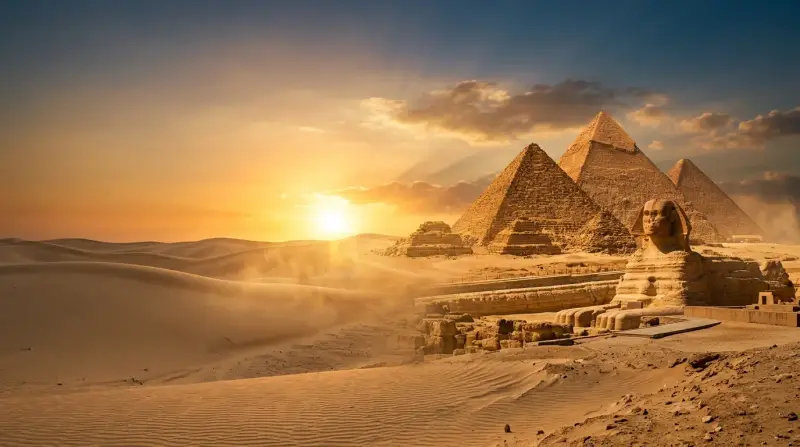
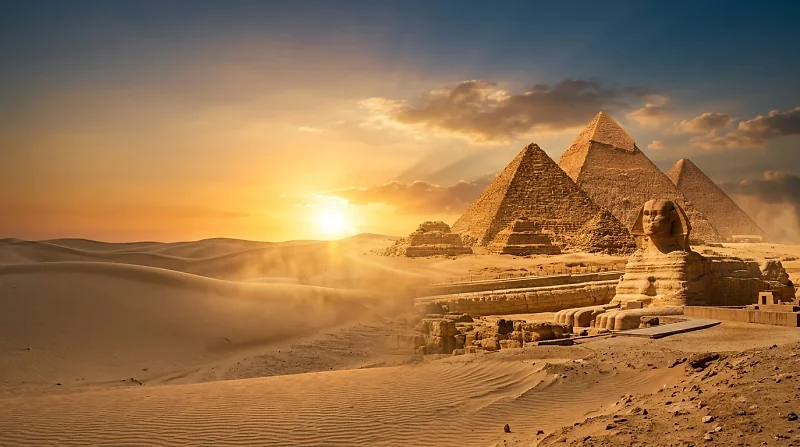
feat(home,about): enhance mobile hero image clarity and update baseline travelers label

diff --git a/index.html b/index.html
@@ -36,8 +36,7 @@
   <link rel="preconnect" href="https://res.cloudinary.com" crossorigin>
   <link rel="dns-prefetch" href="https://images.unsplash.com">
   <link rel="dns-prefetch" href="https://api.dunas-travel.com">
-  <link rel="preload" as="image" href="/imgs/slider-abu-simbel-480.webp" type="image/webp" fetchpriority="high" media="(max-width: 480px)">
-  <link rel="preload" as="image" href="/imgs/slider-abu-simbel-800.webp" type="image/webp" fetchpriority="high" media="(min-width: 481px) and (max-width: 768px)">
+  <link rel="preload" as="image" href="/imgs/slider-abu-simbel-800.webp" type="image/webp" fetchpriority="high" media="(max-width: 768px)">
   <link rel="preload" as="image" href="/imgs/slider-abu-simbel.webp" type="image/webp" fetchpriority="high" media="(min-width: 769px)">
   <!-- Preload primary self-hosted fonts for instant first paint and zero layout shift -->
   <link rel="preload" href="/fonts/SLXVc1nY6HkvangtZmpQdkhzfH5lkSscQyyS4J0.woff2" as="font" type="font/woff2" crossorigin>
@@ -48,19 +47,13 @@
   </noscript>
 
   <style>
-    /* First-paint skeleton hero (kept in HTML so it paints before React).
-       Phones under 480px use the 15 kB 480px variant for instant LCP. */
+    /* First-paint skeleton hero (kept in HTML so it paints before React). */
     .initial-hero {
       background: #122327 url('/imgs/slider-abu-simbel.webp') center center / cover no-repeat;
     }
     @media (max-width: 768px) {
       .initial-hero {
         background-image: url('/imgs/slider-abu-simbel-800.webp');
-      }
-    }
-    @media (max-width: 480px) {
-      .initial-hero {
-        background-image: url('/imgs/slider-abu-simbel-480.webp');
       }
     }
   </style>

diff --git a/src/components/home/HomeHeroSection.jsx b/src/components/home/HomeHeroSection.jsx
@@ -33,7 +33,6 @@ const SLIDE_DATA = [
     id: "hero-s1",
     bgClass: "slider-bg one",
     bgImage: "/imgs/slider-abu-simbel.webp",
-    bgImage480: "/imgs/slider-abu-simbel-480.webp",
     bgImage800: "/imgs/slider-abu-simbel-800.webp",
     titlePart1: "luxury",
     titlePart2: "journey",
@@ -45,7 +44,6 @@ const SLIDE_DATA = [
     id: "hero-s2",
     bgClass: "slider-bg two",
     bgImage: "/imgs/slider-pyramids.webp",
-    bgImage480: "/imgs/slider-pyramids-480.webp",
     bgImage800: "/imgs/slider-pyramids-800.webp",
     titlePart1: "luxury",
     titlePart2: "journey",
@@ -57,7 +55,6 @@ const SLIDE_DATA = [
     id: "hero-s3",
     bgClass: "slider-bg three",
     bgImage: "/imgs/slider-karnak.webp",
-    bgImage480: "/imgs/slider-karnak-480.webp",
     bgImage800: "/imgs/slider-karnak-800.webp",
     titlePart1: "luxury",
     titlePart2: "journey",
@@ -137,12 +134,10 @@ function HeroSlideItem({ slide, isActive, isRtl, setIsVideoOpen, t, lang }) {
       <div className="slider-section d-flex align-items-center">
         <div className={slide.bgClass}>
           <picture>
-            <source media="(max-width: 480px)" srcSet={slide.bgImage480} />
-            <source media="(max-width: 768px)" srcSet={slide.bgImage800} />
             <img
               className="slider-bg-img"
               src={slide.bgImage}
-              srcSet={`${slide.bgImage480} 480w, ${slide.bgImage800} 800w, ${slide.bgImage} 1376w`}
+              srcSet={`${slide.bgImage800} 800w, ${slide.bgImage} 1376w`}
               sizes="100vw"
               alt=""
               aria-hidden="true"

diff --git a/src/components/home/HomeHeroSection.css b/src/components/home/HomeHeroSection.css
@@ -859,7 +859,7 @@
 
   /* Center right background alignment so monuments shine on portrait screens */
   .slider-bg-img {
-    object-position: 75% center !important;
+    object-position: 70% center !important;
   }
 
   .slider-section .hero_content {
@@ -951,7 +951,7 @@
   }
 
   .slider-bg-img {
-    object-position: 78% center !important;
+    object-position: 68% center !important;
   }
 
   .slider-section .hero_content {
